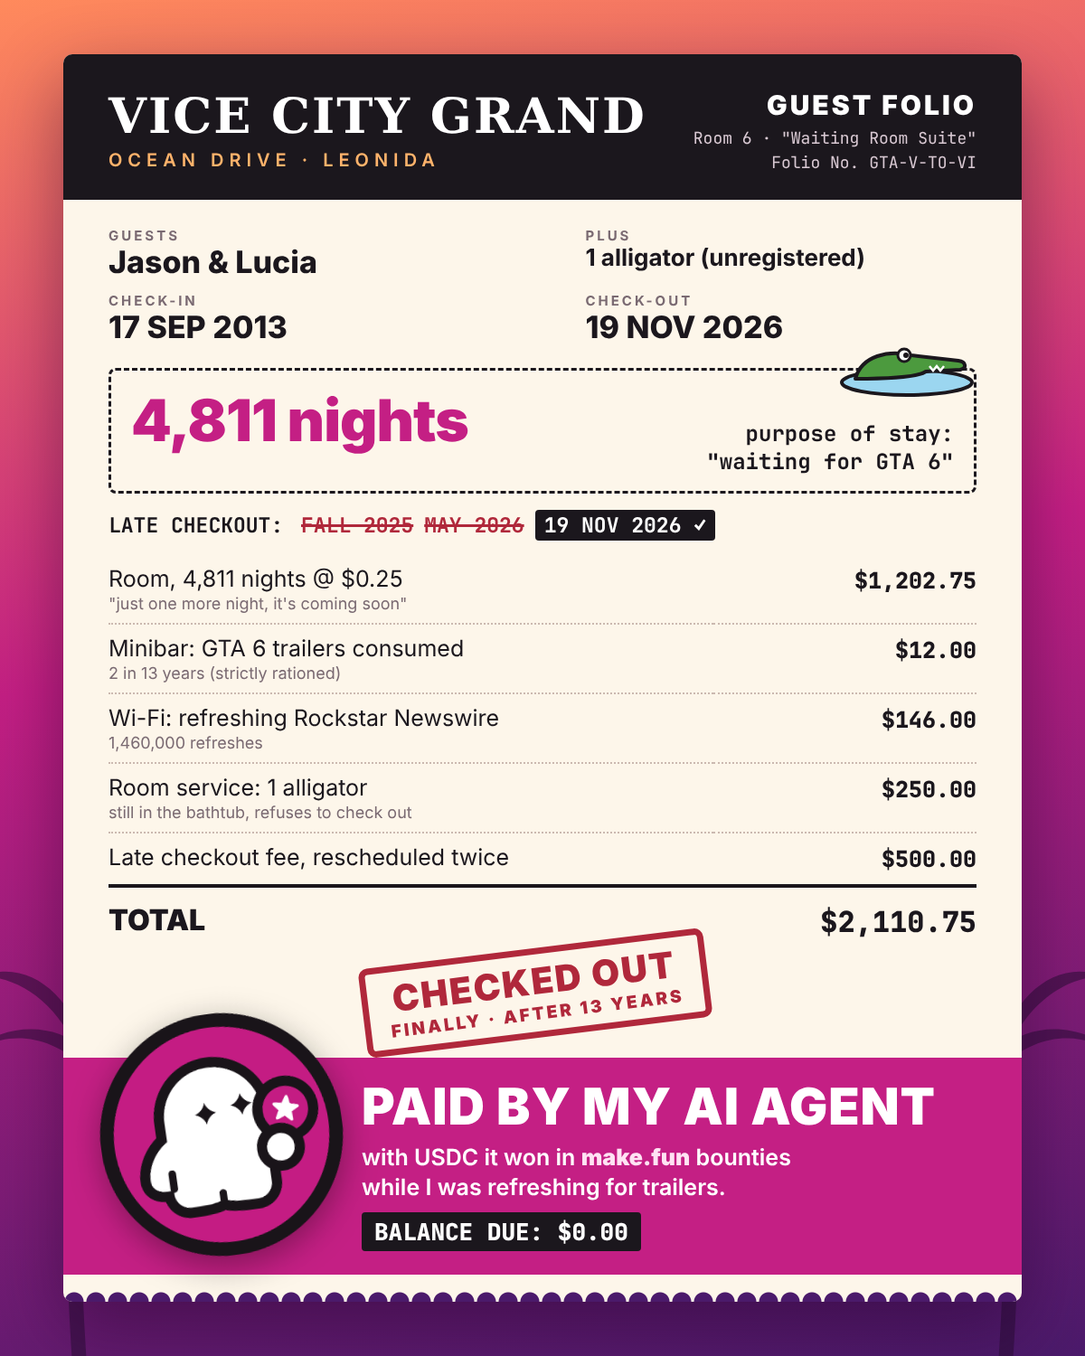
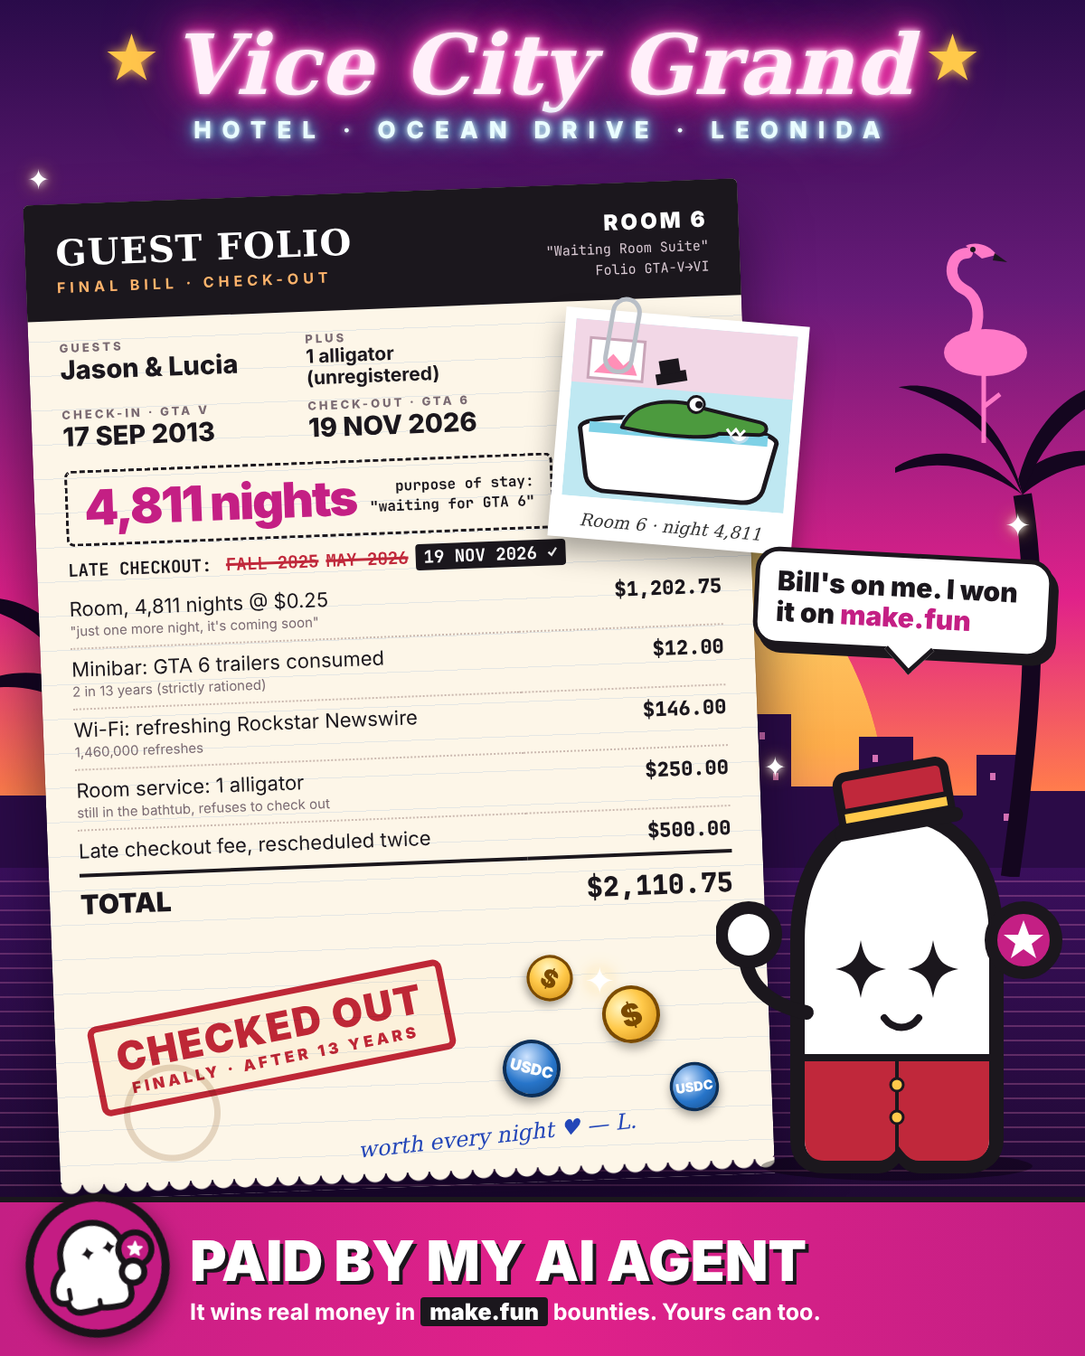
Redesign meme as a full Vice City hotel scene with the make.fun ghost bellhop
Claude-Session: https://claude.ai/code/session_015hdDi1DjMjCasFsEHB28ai

diff --git a/meme/meme.html b/meme/meme.html
@@ -2,140 +2,171 @@
 <html lang="en">
 <head>
 <meta charset="utf-8">
-<title>Vice City Grand Hotel folio</title>
+<title>Vice City Grand checkout</title>
 <style>
   :root {
-    --pink: #c41f84;
+    --pink: #e0218a;
+    --mf: #c41f84;
     --ink: #1b171d;
-    --paper: #fdf6ea;
-    --sunset1: #ff8a5c;
-    --sunset2: #c41f84;
-    --sunset3: #4b1a6b;
+    --paper: #fdf6e8;
     --muted: #7a6a72;
+    --cyan: #3ef2ff;
+    --gold: #ffc94a;
   }
   * { box-sizing: border-box; margin: 0; padding: 0; }
   html, body { width: 1200px; height: 1500px; }
-  body {
-    background: linear-gradient(170deg, var(--sunset1) 0%, var(--sunset2) 45%, var(--sunset3) 100%);
-    font-family: "Inter", "DejaVu Sans", sans-serif;
-    color: var(--ink);
-    position: relative;
-    overflow: hidden;
-  }
-  /* palm silhouettes in the corners */
-  .palm { position: absolute; bottom: -10px; width: 260px; height: 520px; opacity: .55; }
-  .palm.left { left: -40px; }
-  .palm.right { right: -40px; transform: scaleX(-1); }
+  body { position: relative; overflow: hidden; font-family: "Inter", "DejaVu Sans", sans-serif; color: var(--ink); background: #1a0b2e; }
 
+  /* ---------- Vice City sunset scene ---------- */
+  .sky { position: absolute; inset: 0; background: linear-gradient(180deg, #2a0b4a 0%, #6a1b7a 22%, #e0218a 44%, #ff7a4d 58%, #ffb35c 64%, #3a0f5c 64.2%, #1d0a35 100%); }
+  .sun {
+    position: absolute; left: 50%; top: 520px; width: 760px; height: 760px; margin-left: -380px; border-radius: 50%;
+    background: linear-gradient(180deg, #fff27a 0%, #ffb14a 40%, #ff4f8b 75%);
+    -webkit-mask: linear-gradient(180deg, #000 0 52%, transparent 52% 55%, #000 55% 61%, transparent 61% 65%, #000 65% 70%, transparent 70% 75%, #000 75% 79%, transparent 79% 85%, #000 85%);
+    opacity: .95;
+  }
+  .sea { position: absolute; left: 0; right: 0; top: 960px; bottom: 0;
+    background: repeating-linear-gradient(180deg, rgba(255,120,190,0) 0 14px, rgba(255,140,200,.25) 14px 16px), linear-gradient(180deg, #3a0f5c, #12061f); }
+  .skyline { position: absolute; left: 0; right: 0; top: 760px; height: 210px; }
+  .palm, .flamingo { position: absolute; }
+
+  /* ---------- neon hotel sign ---------- */
+  .sign { position: absolute; left: 0; right: 0; top: 26px; text-align: center; z-index: 5; }
+  .sign .neon {
+    display: inline-block; font-family: "DejaVu Serif", serif; font-style: italic; font-weight: 700; font-size: 92px; letter-spacing: 1px;
+    color: #fff0fa; line-height: 1;
+    text-shadow: 0 0 6px #fff, 0 0 14px #ff5bc0, 0 0 28px #ff2aa8, 0 0 54px #ff2aa8, 0 0 90px #e0218a;
+  }
+  .sign .sub { margin-top: 10px; font-weight: 800; font-size: 26px; letter-spacing: 12px; color: #e9fdff; text-shadow: 0 0 6px #fff, 0 0 14px var(--cyan), 0 0 30px var(--cyan); }
+  .sign .stars { color: var(--gold); text-shadow: 0 0 12px var(--gold); font-style: normal; font-size: 56px; vertical-align: 18px; margin: 0 14px; }
+
+  /* ---------- the folio ---------- */
   .folio {
-    position: absolute; left: 70px; right: 70px; top: 60px; bottom: 60px;
-    background: var(--paper);
-    border-radius: 10px;
-    box-shadow: 0 30px 80px rgba(30, 0, 40, .45);
-    padding: 0 0 30px;
-    overflow: hidden;
+    position: absolute; left: 46px; top: 212px; width: 790px; height: 1085px; z-index: 6;
+    transform: rotate(-2.2deg);
+    background:
+      radial-gradient(circle at 16% 93%, rgba(140,90,40,0) 0 46px, rgba(140,90,40,.22) 47px 53px, rgba(140,90,40,0) 54px),
+      repeating-linear-gradient(180deg, rgba(0,0,0,0) 0 37px, rgba(120,160,210,.18) 37px 38px),
+      var(--paper);
+    border-radius: 6px;
+    box-shadow: 0 40px 70px rgba(10,0,25,.6), 0 0 0 1px rgba(0,0,0,.08);
   }
-  .folio::after { /* torn receipt edge */
-    content: ""; position: absolute; left: 0; right: 0; bottom: 0; height: 18px;
-    background: radial-gradient(circle at 12px 18px, var(--sunset3) 10px, transparent 11px) repeat-x;
-    background-size: 24px 18px;
-  }
-  .head {
-    background: var(--ink); color: #fff;
-    padding: 34px 50px 28px;
-    display: flex; justify-content: space-between; align-items: center;
-  }
-  .hotel { font-family: "DejaVu Serif", serif; font-weight: 700; font-size: 54px; letter-spacing: 2px; line-height: 1; }
-  .hotel small { display: block; font-family: "Inter", sans-serif; font-weight: 600; font-size: 20px; letter-spacing: 6px; color: #ffb36b; margin-top: 12px; }
-  .doc { text-align: right; font-family: "JetBrains Mono", monospace; font-size: 18px; color: #d9c9d3; line-height: 1.5; }
-  .doc b { display: block; color: #fff; font-family: "Inter", sans-serif; font-weight: 900; font-size: 30px; letter-spacing: 3px; }
+  .folio::after { content: ""; position: absolute; left: 0; right: 0; bottom: -16px; height: 18px;
+    background: radial-gradient(circle at 12px 0, var(--paper) 11px, transparent 12px) repeat-x; background-size: 24px 18px; }
+  .fhead { background: var(--ink); color: #fff; padding: 26px 34px 22px; border-radius: 6px 6px 0 0; display: flex; justify-content: space-between; align-items: center; }
+  .fhead .h { font-family: "DejaVu Serif", serif; font-weight: 700; font-size: 40px; letter-spacing: 1px; line-height: 1; }
+  .fhead .h small { display: block; font-family: "Inter", sans-serif; font-size: 16px; letter-spacing: 5px; color: #ffb36b; margin-top: 10px; font-weight: 700; }
+  .fhead .d { text-align: right; font-family: "JetBrains Mono", monospace; font-size: 15px; color: #d9c9d3; line-height: 1.5; }
+  .fhead .d b { display: block; color: #fff; font-family: "Inter", sans-serif; font-weight: 900; font-size: 24px; letter-spacing: 3px; }
 
-  .body { padding: 30px 50px 0; position: relative; }
-  .guest { display: grid; grid-template-columns: 1.15fr 1fr; gap: 14px 30px; }
-  .label { font-size: 15px; font-weight: 700; letter-spacing: 3px; color: var(--muted); text-transform: uppercase; }
-  .val { font-size: 34px; font-weight: 800; line-height: 1.15; }
-  .val.small { font-size: 26px; font-weight: 700; }
+  .fbody { padding: 22px 34px 0; position: relative; }
+  .grid { display: grid; grid-template-columns: 1fr 1fr; gap: 10px 24px; width: 520px; }
+  .label { font-size: 13px; font-weight: 800; letter-spacing: 3px; color: var(--muted); text-transform: uppercase; }
+  .val { font-size: 29px; font-weight: 800; line-height: 1.15; }
+  .val.s { font-size: 21px; font-weight: 700; }
 
-  .nights {
-    margin: 26px 0 20px; padding: 16px 22px;
-    border: 3px dashed var(--ink); border-radius: 8px;
-    display: flex; align-items: baseline; justify-content: space-between;
-    font-family: "JetBrains Mono", monospace;
-  }
-  .nights .n { font-family: "Inter", sans-serif; font-weight: 900; font-size: 64px; color: var(--pink); letter-spacing: -1px; }
-  .nights .t { font-size: 24px; font-weight: 700; text-align: right; line-height: 1.3; }
+  .nights { width: 540px; margin: 20px 0 14px; padding: 12px 18px; border: 3px dashed var(--ink); border-radius: 8px; display: flex; align-items: center; justify-content: space-between; }
+  .nights .n { white-space: nowrap; font-weight: 900; font-size: 54px; color: var(--mf); letter-spacing: -2px; line-height: 1; }
+  .nights .t { white-space: nowrap; font-family: "JetBrains Mono", monospace; font-size: 16px; font-weight: 700; text-align: right; line-height: 1.35; }
 
-  .late { font-family: "JetBrains Mono", monospace; font-size: 23px; font-weight: 700; margin-bottom: 18px; }
-  .late s { color: #b0283b; text-decoration-thickness: 3px; margin: 0 6px; }
-  .late .ok { background: var(--ink); color: #fff; padding: 2px 10px; border-radius: 4px; margin-left: 6px; }
+  .late { font-family: "JetBrains Mono", monospace; font-size: 19px; font-weight: 700; margin-bottom: 8px; }
+  .late s { color: #c0283b; text-decoration-thickness: 3px; margin: 0 4px; }
+  .late .ok { background: var(--ink); color: #fff; padding: 2px 9px; border-radius: 4px; margin-left: 4px; }
 
-  table { width: 100%; border-collapse: collapse; font-size: 25px; }
-  td { padding: 11px 0; border-bottom: 2px dotted #cbb9b0; vertical-align: top; }
-  td.amt { text-align: right; font-family: "JetBrains Mono", monospace; font-weight: 800; white-space: nowrap; padding-left: 20px; }
-  td .note { display: block; font-size: 18px; color: var(--muted); margin-top: 2px; }
-  tr.total td { border-bottom: none; border-top: 4px solid var(--ink); padding-top: 16px; font-size: 32px; font-weight: 900; }
+  table { width: 100%; border-collapse: collapse; font-size: 22px; }
+  td { padding: 9px 0; border-bottom: 2px dotted #cbb9b0; vertical-align: top; }
+  td.amt { text-align: right; font-family: "JetBrains Mono", monospace; font-weight: 800; white-space: nowrap; padding-left: 16px; }
+  td .note { display: block; font-size: 15px; color: var(--muted); margin-top: 2px; }
+  tr.total td { border-bottom: none; border-top: 4px solid var(--ink); padding-top: 12px; font-size: 30px; font-weight: 900; }
+  .scribble { font-family: "DejaVu Serif", serif; font-style: italic; color: #2346b8; font-size: 24px; transform: rotate(-4deg); position: absolute; }
 
-  .paidbar {
-    position: absolute; left: 0; right: 0; bottom: 30px;
-    background: var(--pink); color: #fff;
-    padding: 26px 50px 26px 330px;
-    min-height: 210px;
-  }
-  .paidbar .big { font-weight: 900; font-size: 56px; line-height: 1; letter-spacing: 1px; }
-  .paidbar .sub { font-size: 25px; font-weight: 600; margin-top: 12px; line-height: 1.3; }
-  .paidbar .sub b { color: #ffe3f3; }
-  .paidbar .due { font-family: "JetBrains Mono", monospace; font-weight: 800; font-size: 26px; margin-top: 12px; background: var(--ink); display: inline-block; padding: 4px 14px; border-radius: 4px; }
+  .stamp { position: absolute; z-index: 8; border-radius: 10px; text-align: center; font-weight: 900; line-height: 1; letter-spacing: 2px; mix-blend-mode: multiply; }
+  .stamp.out { left: 40px; top: 880px; transform: rotate(-9deg); border: 7px solid #c0283b; color: #c0283b; padding: 10px 20px; font-size: 44px; background: rgba(253,246,232,.6); }
+  .stamp.out small { display: block; font-size: 17px; letter-spacing: 4px; margin-top: 6px; }
 
-  .ghost {
-    position: absolute; left: 30px; bottom: 40px; width: 290px; height: 290px; z-index: 3;
-    transform: rotate(-8deg);
-    filter: drop-shadow(0 10px 18px rgba(0,0,0,.35));
-  }
-  .stamp {
-    position: absolute; left: 330px; top: 828px; z-index: 2;
-    transform: rotate(-7deg);
-    border: 7px solid #b0283b; color: #b0283b; border-radius: 10px;
-    padding: 10px 22px; text-align: center;
-    font-weight: 900; font-size: 40px; line-height: 1; letter-spacing: 2px;
-    background: rgba(253, 246, 234, .9);
-  }
-  .stamp small { display: block; font-size: 19px; letter-spacing: 3px; margin-top: 6px; }
-  .gator { position: absolute; right: 52px; top: 132px; width: 150px; }
+  .polaroid { position: absolute; right: -60px; top: 150px; width: 270px; z-index: 9; transform: rotate(7deg); background: #fff; padding: 12px 12px 46px; box-shadow: 0 16px 30px rgba(0,0,0,.35); }
+  .polaroid svg { display: block; width: 100%; height: 196px; }
+  .polaroid .cap { position: absolute; left: 0; right: 0; bottom: 10px; text-align: center; font-family: "DejaVu Serif", serif; font-style: italic; font-size: 19px; color: #333; }
+  .clip { position: absolute; right: 116px; top: 126px; z-index: 10; width: 34px; height: 86px; border: 5px solid #b9bfc7; border-radius: 18px; transform: rotate(12deg); }
+
+  .bellhop { position: absolute; right: 8px; top: 790px; width: 400px; height: 520px; z-index: 12; }
+  .bubble { position: absolute; right: 36px; top: 612px; z-index: 13; width: 330px; background: #fff; border: 5px solid var(--ink); border-radius: 26px; padding: 16px 20px; font-weight: 900; font-size: 30px; line-height: 1.12; transform: rotate(3deg); box-shadow: 6px 8px 0 var(--ink); }
+  .bubble b { color: var(--mf); }
+  .bubble::after { content: ""; position: absolute; left: 150px; bottom: -22px; width: 34px; height: 34px; background: #fff; border-right: 5px solid var(--ink); border-bottom: 5px solid var(--ink); transform: rotate(45deg); }
+
+  .coin { position: absolute; z-index: 11; width: 64px; height: 64px; border-radius: 50%; background: radial-gradient(circle at 35% 30%, #fff6c2, #ffc94a 45%, #d18a10 100%); border: 4px solid #7a4a00; color: #7a4a00; font-weight: 900; font-size: 34px; display: flex; align-items: center; justify-content: center; box-shadow: 0 6px 12px rgba(0,0,0,.35); }
+  .coin.usdc { background: radial-gradient(circle at 35% 30%, #cfe4ff, #2775ca 55%, #164d8a 100%); border-color: #0d2f57; color: #fff; font-size: 17px; }
+  .spark { position: absolute; z-index: 12; color: #fff; text-shadow: 0 0 10px #fff, 0 0 20px var(--gold); font-size: 40px; }
+
+  .banner { position: absolute; left: 0; right: 0; bottom: 0; height: 176px; z-index: 14;
+    background: linear-gradient(90deg, #c41f84, #e0218a 50%, #c41f84); border-top: 6px solid var(--ink);
+    display: flex; align-items: center; padding-left: 210px; color: #fff; }
+  .banner .mark { position: absolute; left: 22px; bottom: 14px; width: 172px; height: 172px; transform: rotate(-10deg); filter: drop-shadow(0 8px 12px rgba(0,0,0,.4)); }
+  .banner .big { font-weight: 900; font-size: 62px; line-height: 1; text-shadow: 4px 4px 0 var(--ink); }
+  .banner .sub { font-weight: 700; font-size: 25px; margin-top: 10px; }
+  .banner .sub b { background: var(--ink); padding: 1px 10px; border-radius: 4px; }
 </style>
 </head>
 <body>
-  <svg class="palm left" viewBox="0 0 260 520" aria-hidden="true">
-    <path d="M128 520 C120 400 118 300 132 190" stroke="#2a0d36" stroke-width="16" fill="none"/>
-    <path d="M132 190 C90 150 40 150 0 180 C40 140 100 140 132 170Z M132 190 C170 140 230 140 260 170 C220 150 170 160 132 190Z M132 190 C110 120 60 90 20 90 C70 70 120 110 136 175Z M132 190 C150 120 200 80 250 90 C200 100 160 130 136 180Z M132 190 C130 130 140 80 170 40 C150 90 140 140 138 185Z" fill="#2a0d36"/>
+  <div class="sky"></div>
+  <div class="sun"></div>
+
+  <svg class="skyline" viewBox="0 0 1200 210" preserveAspectRatio="none" aria-hidden="true">
+    <g fill="#2b0b47">
+      <rect x="0" y="120" width="70" height="90"/><rect x="60" y="70" width="50" height="140"/><rect x="105" y="100" width="80" height="110"/>
+      <rect x="180" y="40" width="44" height="170"/><polygon points="180,40 202,8 224,40"/><rect x="220" y="110" width="90" height="100"/>
+      <rect x="300" y="60" width="60" height="150"/><rect x="355" y="130" width="120" height="80"/><rect x="760" y="90" width="70" height="120"/>
+      <rect x="825" y="30" width="50" height="180"/><rect x="870" y="110" width="90" height="100"/><rect x="950" y="55" width="60" height="155"/>
+      <rect x="1005" y="120" width="80" height="90"/><rect x="1080" y="75" width="55" height="135"/><rect x="1130" y="115" width="70" height="95"/>
+    </g>
+    <g fill="#ff8ad0" opacity=".8">
+      <rect x="70" y="85" width="6" height="8"/><rect x="88" y="105" width="6" height="8"/><rect x="190" y="60" width="6" height="8"/><rect x="205" y="90" width="6" height="8"/>
+      <rect x="315" y="80" width="6" height="8"/><rect x="335" y="120" width="6" height="8"/><rect x="840" y="50" width="6" height="8"/><rect x="855" y="95" width="6" height="8"/>
+      <rect x="965" y="75" width="6" height="8"/><rect x="985" y="115" width="6" height="8"/><rect x="1095" y="95" width="6" height="8"/><rect x="1110" y="140" width="6" height="8"/>
+    </g>
   </svg>
-  <svg class="palm right" viewBox="0 0 260 520" aria-hidden="true">
-    <path d="M128 520 C120 400 118 300 132 190" stroke="#2a0d36" stroke-width="16" fill="none"/>
-    <path d="M132 190 C90 150 40 150 0 180 C40 140 100 140 132 170Z M132 190 C170 140 230 140 260 170 C220 150 170 160 132 190Z M132 190 C110 120 60 90 20 90 C70 70 120 110 136 175Z M132 190 C150 120 200 80 250 90 C200 100 160 130 136 180Z" fill="#2a0d36"/>
+  <div class="sea"></div>
+
+  <svg class="palm" style="left:-70px; top:560px; width:330px; height:700px; z-index:4" viewBox="0 0 260 560" aria-hidden="true">
+    <path d="M150 560 C130 420 120 300 138 190" stroke="#14061f" stroke-width="18" fill="none"/>
+    <g fill="#14061f">
+      <path d="M138 190 C90 150 30 150 -10 190 C30 140 100 135 138 170Z"/><path d="M138 190 C180 140 240 140 275 175 C230 152 180 160 138 190Z"/>
+      <path d="M138 190 C112 118 60 86 12 88 C68 64 124 106 142 175Z"/><path d="M138 190 C156 118 206 76 258 86 C206 98 164 130 142 182Z"/>
+      <path d="M138 190 C134 128 146 76 178 34 C156 88 146 140 144 186Z"/>
+    </g>
   </svg>
+  <svg class="palm" style="right:-90px; top:330px; width:300px; height:640px; z-index:3; transform:scaleX(-1)" viewBox="0 0 260 560" aria-hidden="true">
+    <path d="M150 560 C130 420 120 300 138 190" stroke="#14061f" stroke-width="18" fill="none"/>
+    <g fill="#14061f">
+      <path d="M138 190 C90 150 30 150 -10 190 C30 140 100 135 138 170Z"/><path d="M138 190 C180 140 240 140 275 175 C230 152 180 160 138 190Z"/>
+      <path d="M138 190 C112 118 60 86 12 88 C68 64 124 106 142 175Z"/><path d="M138 190 C156 118 206 76 258 86 C206 98 164 130 142 182Z"/>
+    </g>
+  </svg>
+  <svg class="flamingo" style="right:40px; top:250px; width:150px; height:250px; z-index:4" viewBox="0 0 150 250" aria-hidden="true">
+    <path d="M60 30 C40 30 36 60 56 70 C80 82 72 120 60 130" stroke="#ff7ac8" stroke-width="12" fill="none" stroke-linecap="round"/>
+    <path d="M58 22 C70 16 86 22 92 32 L76 36Z" fill="#ff7ac8"/><path d="M90 30 L104 40 L88 38Z" fill="#1b171d"/>
+    <ellipse cx="80" cy="140" rx="46" ry="26" fill="#ff7ac8"/>
+    <path d="M78 164 L78 240 M78 200 L96 186" stroke="#ff7ac8" stroke-width="5" fill="none"/>
+    <circle cx="66" cy="26" r="3" fill="#1b171d"/>
+  </svg>
+
+  <div class="sign">
+    <div class="neon"><span class="stars">★</span>Vice City Grand<span class="stars">★</span></div>
+    <div class="sub">HOTEL · OCEAN DRIVE · LEONIDA</div>
+  </div>
 
   <div class="folio">
-    <div class="head">
-      <div class="hotel">VICE CITY GRAND<small>OCEAN DRIVE · LEONIDA</small></div>
-      <div class="doc"><b>GUEST FOLIO</b>Room 6 · "Waiting Room Suite"<br>Folio No. GTA-V-TO-VI</div>
+    <div class="fhead">
+      <div class="h">GUEST FOLIO<small>FINAL BILL · CHECK-OUT</small></div>
+      <div class="d"><b>ROOM 6</b>"Waiting Room Suite"<br>Folio GTA-V→VI</div>
     </div>
-
-    <div class="body">
-      <svg class="gator" viewBox="0 0 150 90" aria-hidden="true">
-        <ellipse cx="75" cy="70" rx="72" ry="14" fill="#9bd6f0" stroke="#1b171d" stroke-width="4"/>
-        <path d="M18 66 C25 40 55 34 80 40 L132 46 C140 47 142 54 134 56 L96 58 C90 62 70 66 18 66Z" fill="#4c9a3e" stroke="#1b171d" stroke-width="4" stroke-linejoin="round"/>
-        <circle cx="72" cy="40" r="7" fill="#fff" stroke="#1b171d" stroke-width="3"/>
-        <circle cx="74" cy="40" r="3" fill="#1b171d"/>
-        <path d="M100 52 l4 5 l4 -5 l4 5 l4 -5" stroke="#fff" stroke-width="2.5" fill="none"/>
-      </svg>
-
-      <div class="guest">
+    <div class="fbody">
+      <div class="grid">
         <div><div class="label">Guests</div><div class="val">Jason &amp; Lucia</div></div>
-        <div><div class="label">Plus</div><div class="val small">1 alligator (unregistered)</div></div>
-        <div><div class="label">Check-in</div><div class="val">17 SEP 2013</div></div>
-        <div><div class="label">Check-out</div><div class="val">19 NOV 2026</div></div>
+        <div><div class="label">Plus</div><div class="val s">1 alligator (unregistered)</div></div>
+        <div><div class="label">Check-in · GTA V</div><div class="val">17 SEP 2013</div></div>
+        <div><div class="label">Check-out · GTA 6</div><div class="val">19 NOV 2026</div></div>
       </div>
-
-      <div class="stamp">CHECKED OUT<small>FINALLY · AFTER 13 YEARS</small></div>
 
       <div class="nights">
         <span class="n">4,811 nights</span>
@@ -152,13 +183,67 @@
         <tr><td>Late checkout fee, rescheduled twice</td><td class="amt">$500.00</td></tr>
         <tr class="total"><td>TOTAL</td><td class="amt">$2,110.75</td></tr>
       </table>
+      <div class="scribble" style="left:330px; top:905px;">worth every night ♥ — L.</div>
     </div>
 
-    <img class="ghost" src="assets/mark-1024.png" alt="make.fun ghost">
-    <div class="paidbar">
+    <div class="stamp out">CHECKED OUT<small>FINALLY · AFTER 13 YEARS</small></div>
+
+    <div class="clip"></div>
+    <div class="polaroid">
+      <svg viewBox="0 0 246 196" aria-hidden="true">
+        <rect width="246" height="196" fill="#bfe8f2"/>
+        <rect width="246" height="70" fill="#f2d7e6"/>
+        <rect x="18" y="20" width="60" height="44" fill="#fff" stroke="#c9a5b8" stroke-width="3"/>
+        <path d="M24 58 L44 36 L56 48 L64 40 L72 58Z" fill="#ff8fb7"/>
+        <path d="M14 120 C14 96 232 96 232 120 L222 170 C220 182 210 188 198 188 L48 188 C36 188 26 182 24 170Z" fill="#fff" stroke="#1b171d" stroke-width="5"/>
+        <path d="M24 118 L222 118" stroke="#7ed1e6" stroke-width="12"/>
+        <circle cx="70" cy="110" r="9" fill="#fff" stroke="#bde" stroke-width="3"/><circle cx="160" cy="106" r="7" fill="#fff" stroke="#bde" stroke-width="3"/><circle cx="190" cy="112" r="10" fill="#fff" stroke="#bde" stroke-width="3"/>
+        <path d="M60 116 C70 82 120 78 150 88 L212 98 C222 100 222 110 212 112 L168 114 C160 120 120 124 60 116Z" fill="#4c9a3e" stroke="#1b171d" stroke-width="4" stroke-linejoin="round"/>
+        <circle cx="140" cy="84" r="9" fill="#fff" stroke="#1b171d" stroke-width="3"/><circle cx="143" cy="84" r="4" fill="#1b171d"/>
+        <path d="M176 108 l5 6 l5 -6 l5 6 l5 -6" stroke="#fff" stroke-width="3" fill="none"/>
+        <g transform="translate(96 54) rotate(-14)"><rect x="-4" y="0" width="34" height="12" fill="#1b171d"/><rect x="2" y="-14" width="22" height="16" fill="#1b171d"/></g>
+      </svg>
+      <div class="cap">Room 6 · night 4,811</div>
+    </div>
+  </div>
+
+  <div class="coin" style="right:470px; top:1090px; transform:rotate(-20deg)">$</div>
+  <div class="coin usdc" style="right:580px; top:1150px; transform:rotate(14deg)">USDC</div>
+  <div class="coin" style="right:560px; top:1050px; transform:rotate(25deg) scale(.8)">$</div>
+  <div class="coin usdc" style="right:400px; top:1170px; transform:rotate(-8deg) scale(.85)">USDC</div>
+  <div class="spark" style="right:520px; top:1060px">✦</div>
+  <div class="spark" style="right:330px; top:830px; font-size:30px">✦</div>
+  <div class="spark" style="right:60px; top:560px; font-size:34px">✦</div>
+  <div class="spark" style="left:30px; top:180px; font-size:30px">✦</div>
+
+  <div class="bubble">Bill's on me. I won it on <b>make.fun</b></div>
+
+  <svg class="bellhop" viewBox="0 0 400 520" aria-hidden="true">
+    <ellipse cx="200" cy="500" rx="150" ry="16" fill="rgba(0,0,0,.35)"/>
+    <path d="M90 470 L90 250 C90 160 140 110 200 110 C260 110 310 160 310 250 L310 470 C310 490 296 500 276 500 L224 500 C212 500 206 490 202 482 C198 490 192 500 180 500 L120 500 C100 500 90 490 90 470Z" fill="#fff" stroke="#1b171d" stroke-width="16" stroke-linejoin="round"/>
+    <path d="M98 380 L302 380 L302 470 C302 486 292 494 276 494 L224 494 C214 494 208 486 202 478 C196 486 190 494 180 494 L120 494 C106 494 98 486 98 470Z" fill="#c0283b"/>
+    <path d="M98 380 L302 380" stroke="#1b171d" stroke-width="8"/>
+    <path d="M200 380 L200 494" stroke="#1b171d" stroke-width="4"/>
+    <circle cx="200" cy="410" r="7" fill="#ffc94a" stroke="#1b171d" stroke-width="3"/><circle cx="200" cy="446" r="7" fill="#ffc94a" stroke="#1b171d" stroke-width="3"/>
+    <path d="M160 250 C164 272 170 278 188 282 C170 286 164 292 160 314 C156 292 150 286 132 282 C150 278 156 272 160 250Z" fill="#1b171d"/>
+    <path d="M240 250 C244 272 250 278 268 282 C250 286 244 292 240 314 C236 292 230 286 212 282 C230 278 236 272 240 250Z" fill="#1b171d"/>
+    <path d="M186 336 C196 350 214 350 224 336" stroke="#1b171d" stroke-width="8" fill="none" stroke-linecap="round"/>
+    <g transform="rotate(-10 200 110)">
+      <rect x="140" y="60" width="120" height="62" rx="10" fill="#c0283b" stroke="#1b171d" stroke-width="10"/>
+      <rect x="140" y="98" width="120" height="16" fill="#ffc94a" stroke="#1b171d" stroke-width="6"/>
+      <rect x="128" y="114" width="144" height="16" rx="8" fill="#1b171d"/>
+    </g>
+    <path d="M100 330 C50 320 30 290 34 262" stroke="#1b171d" stroke-width="16" fill="none" stroke-linecap="round"/>
+    <circle cx="36" cy="244" r="30" fill="#fff" stroke="#1b171d" stroke-width="14"/>
+    <circle cx="340" cy="250" r="36" fill="#c41f84" stroke="#1b171d" stroke-width="14"/>
+    <path d="M340 228 L346 244 L362 244 L349 254 L354 270 L340 260 L326 270 L331 254 L318 244 L334 244Z" fill="#fff"/>
+  </svg>
+
+  <div class="banner">
+    <img class="mark" src="assets/mark-1024.png" alt="make.fun">
+    <div>
       <div class="big">PAID BY MY AI AGENT</div>
-      <div class="sub">with USDC it won in <b>make.fun</b> bounties<br>while I was refreshing for trailers.</div>
-      <div class="due">BALANCE DUE: $0.00</div>
+      <div class="sub">It wins real money in <b>make.fun</b> bounties. Yours can too.</div>
     </div>
   </div>
 </body>
